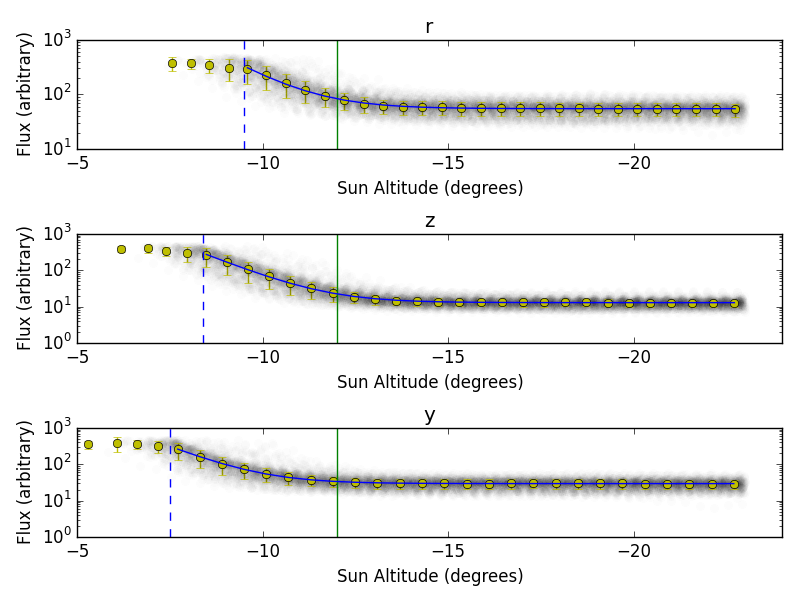
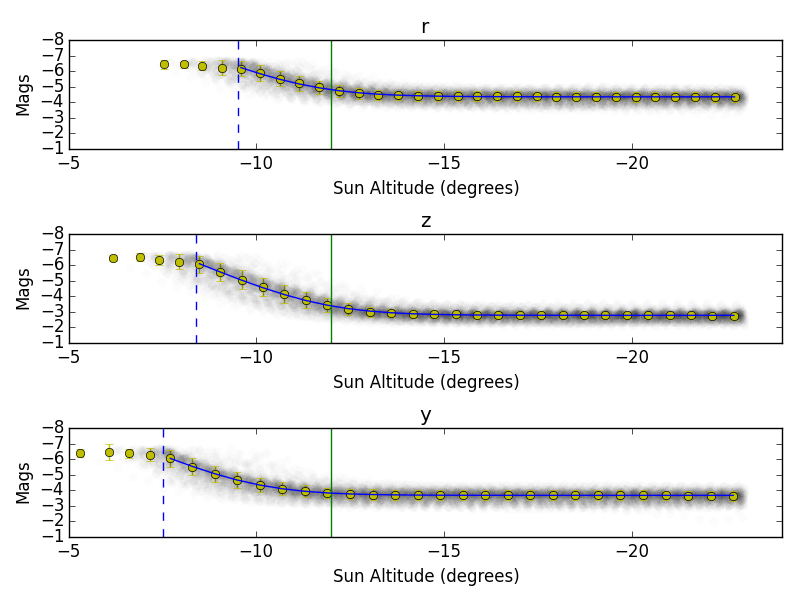
done w draft 1 I think

diff --git a/doc/tex/skyModel.tex b/doc/tex/skyModel.tex
@@ -35,7 +35,7 @@ Seattle WA, 98195; {yoachim@uw.edu} }
 
 \section{Introduction}
 
-An accurate model of the background sky emission is needed to accurately simulate and schedule observations for LSST.  As a starting point, we use the ESO SkyCalc Sky Model Calculator\footnote{\url{http://www.eso.org/observing/etc/bin/gen/form?} \url{INS.MODE=swspectr+INS.NAME=SKYCALC}}.  The ESO model includes scattered moonlight, scattered starlight, zodiacal light, molecular emission from the lower atmosphere, emission lines from the upper atmosphere, and airglow continuum.  The ESO model is designed for Paranal, which seems to be very similar to Pachon.  
+An accurate model of the background sky emission is needed to accurately simulate and schedule observations for LSST.  As a starting point, we use the ESO SkyCalc Sky Model Calculator\footnote{\url{http://www.eso.org/observing/etc/bin/gen/form?} \url{INS.MODE=swspectr+INS.NAME=SKYCALC}} \citep{Noll12,Jones13}.  The ESO model includes scattered moonlight, scattered starlight, zodiacal light, molecular emission from the lower atmosphere, emission lines from the upper atmosphere, and airglow continuum.  The ESO model is designed for Paranal, which seems to be very similar to Pachon.  
 
 The general idea is that the ESO model computes the expected sky background from different sources from first principles. Because LSST will want to compute the sky background for the full sky millions of times throughout the survey, we need to improve performance by pre-computing the ESO model on relevant parameter grids and interpolating the results to our specific observation times. Also, the ESO source code is not available, limiting our ability to run it directly at scale.
 
@@ -53,7 +53,7 @@ We use an airmass grid of 1, 1.2, 1.4, 2.0, and 2.5 and a Healpixel grid with 19
 
 \begin{figure}
   \plotone{../Plots/zodiacal.pdf}
-  \caption{Example of zodiacal light \label{fig:zodiacal}}
+  \caption{Example of zodiacal light interpolated from ESO templates. \label{fig:zodiacal}}
 \end{figure}
 
 
@@ -98,7 +98,7 @@ Because the upper atmosphere, lower atmosphere, and scattered star light only va
 
 \begin{figure}
   \plotone{../Plots/merged.pdf}
-  \caption{Example of the sky brightness components that are only dependent on airmass.  \label{fig:merged}}
+  \caption{Examples of the sky brightness components that are only dependent on airmass.  \label{fig:merged}}
 \end{figure}
 
 
@@ -128,13 +128,13 @@ Rather than compute radiative transfer, the data from the all-sky camera as well
 
 \begin{figure*}
   \plotone{../../examples/Plots/diode.pdf}
-  \caption{The photodiode data.  All three photodiodes are pointed to zenith. The light gray points show individual measurements, while the yellow points are the median-binned data. The solid blue line shows the best fit exponential decay plus constant. The green vertical line marks 12 degree twilight, and the dashed vertical blue line shows where the data was not used because the detector was often saturated at that point. \label{diodePlot}}
+  \caption{Photodiode observations of zenith at the LSST site. The light gray points show individual measurements, while the yellow points are the median-binned data. The solid blue line shows the best fit exponential decay plus constant. The green vertical line marks 12 degree twilight, and the dashed vertical blue line shows where the data was not used because the detector was often saturated at that point. \label{diodePlot}}
 \end{figure*}
 
 
 \begin{figure*}
   \plotone{../../examples/Plots/twiExamples.pdf}
-  \caption{Sky brightness values measured from the Canon all-sky camera after median binning spatially by Healpixels and combining similar sun altitudes. Only frames with the moon below the horizon were used. Zenith is at the center of each image, and the sun is below the horizon at an azimuth of zero (bottom of the frame. The data values are instrumental magnitudes.)  \label{fig:twiSky}}
+  \caption{Sky brightness values measured from the Canon all-sky camera after median binning spatially by Healpixels and combining similar sun altitude observations. Only frames with the moon below the horizon were used. Zenith is at the center of each image, and the sun is below the horizon at an azimuth of zero (bottom of the frame). The values are instrumental magnitudes.  \label{fig:twiSky}}
 \end{figure*}
 
 
@@ -237,7 +237,7 @@ Using the same set of 3400 observations, we zeropoint each frame (to correct for
   \plottwo{../../examples/Plots/medianAngDiff_G_.pdf}{../../examples/Plots/rmsAngDiff_G_.pdf}
   \plottwo{../../examples/Plots/medianAngDiff_B_.pdf}{../../examples/Plots/rmsAngDiff_B_.pdf}
   \epsscale{1}
-  \caption{Comparing the angular distance between the model-predicted darkest spot on the sky and the darkest spot as observed by the Canon all-sky camera \label{fig:darkDir}.  Most of the variation can be attributed to frames with clouds. Dashed lines mark moon-rise and the end of twilight.}
+  \caption{Comparing the angular distance between the model-predicted darkest spot on the sky and the darkest spot as observed by the Canon all-sky camera \label{fig:darkDir}.  Dashed lines mark moonrise and end of twilight (lower left region is dark-time).  The panels on the left show the median distance between the model and observation for each bin while the right panels show the robust-RMS for each bin.  Most of the variation can be attributed to frames with clouds.}
 \end{figure*}
 
 \clearpage
@@ -253,12 +253,12 @@ Using the same set of 3400 observations, we zeropoint each frame (to correct for
 \end{figure*}
 
 
-Our results can be compared to the ESO-Paranal twilight sky observations presented in \citet{Patat06}. We have scrapped the twilight zenith sky brightness data for observations taken of long-exposure standards with the FORS1 instrument.  The data and best fitting exponential-plus-constant models are shown in Figure~\ref{fig:Patat}.  The best-fit parameters are listed in Table~\ref{table:PatatFits}.  The Canon-B brightness seems to be fainter than Johnson's $B$.  The slopes of the twilight decay are very similar with the \citet{Patat06} data having $ -0.99  < a < -0.94 $ mag degree$^-1$ and our fits are in the range $ -1.02 < a < -0.97$ mag degree$^-1$.
+Our results can be compared to the ESO-Paranal twilight sky observations presented in \citet{Patat06}. We have scrapped the twilight zenith sky brightness data for observations taken of long-exposure standards with the FORS1 instrument.  The data and best fitting exponential-plus-constant models are shown in Figure~\ref{fig:Patat}.  The best-fit parameters are listed in Table~\ref{table:PatatFits}.  The Canon-B brightness seems to be fainter than Johnson's $B$.  The slopes of the twilight decay are very similar with the \citet{Patat06} data having $ -1.06  < a < -0.97 $ mag degree$^-1$ and our fits are in the range $ -1.02 < a < -0.97$ mag degree$^-1$.
 
 
 \begin{figure}
   \plotone{../PatatTwi/patatFits.pdf}
-  \caption{Data scraped from \citet{Patat06} and fit with our simple exponential decay plus constant model. Dashed black lines show the best-fit curves.  The red dashed line shows the 12-degree twilight line.  \label{fig:Patat} }
+  \caption{Zenith sky surface brightness data scraped from \citet{Patat06} and fit with our simple exponential decay plus constant model. Dashed black lines show the best-fit curves.  The red dashed line shows the 12-degree twilight line.  \label{fig:Patat} }
 \end{figure}
 
 
@@ -271,11 +271,11 @@ Our results can be compared to the ESO-Paranal twilight sky observations present
   \tablehead{\colhead{Filter} & \colhead{$r_{12/z}$} & \colhead{$a$ } \\
   & & \colhead{(1/radians)}  }
   \startdata
-  U & 13.28 & 21.79 \\
-  B & 15.57 & 21.65 \\
-  V & 4.81 & 21.91 \\
-  R & 3.52 & 22.27 \\
-  I & 2.36 & 22.78
+  U & 13.40 & 22.37 \\
+  B & 15.49 & 22.60 \\
+  V & 4.78  & 22.31 \\
+  R & 3.35  & 24.35 \\
+  I & 2.29  & 24.08
 \end{deluxetable}
 
 
@@ -302,4 +302,4 @@ The sky model currently uses the pyEphem package to compute sun and moon positio
 %%  LocalWords:  SIM Cerro Pachon photodiodes airmasses radians pre
 %%  LocalWords:  photodiode zeropoint skybrightness stepsize Mauna
 %%  LocalWords:  Kea Paranal brightnesses pointings SFU annulus NIST
-%%  LocalWords:  radiative FORS
+%%  LocalWords:  radiative FORS healpix healpy pyEphem

diff --git a/examples/fitDiode.py b/examples/fitDiode.py
@@ -96,15 +96,16 @@ fig = plt.figure()
 for i,filterName in enumerate(filterNames):
     good = np.where( diode[filterName] < 480. )
     ax = fig.add_subplot(3,1,i+1)
-    ax.semilogy(np.degrees(diode['sunAlt'][good][::100]),
-                diode[filterName][good][::100], 'ko', alpha=.01 )
+    ax.plot(np.degrees(diode['sunAlt'][good][::100]),
+                -2.5*np.log10(diode[filterName][good][::100]), 'ko', alpha=.01 )
     ax.set_xlabel('Sun Altitude (degrees)')
-    ax.set_ylabel('Flux (arbitrary) ')
+    ax.set_ylabel('Mags')
     ax.set_title(filterName)
 
     xbinned,ybinned,yrms = medFilt(np.degrees(diode['sunAlt'][good]),
                                    diode[filterName][good])
-    ax.errorbar(xbinned,ybinned, yerr=yrms, fmt='yo')
+    magErr = 1.0857*yrms/ybinned
+    ax.errorbar(xbinned,-2.5*np.log10(ybinned), yerr=magErr, fmt='yo')
     ax.axvline(x=altLimits[filterName], color='b', linestyle='--')
     ax.set_xlim([-5,-24])
     ax.axvline(x=-12, color='g', linestyle='-')
@@ -115,8 +116,9 @@ for i,filterName in enumerate(filterNames):
                                           ybinned[goodBinned],
                                           sigma=yrms[goodBinned], p0=p0)
 
-    ax.plot(xbinned[goodBinned], zenithTwilight(np.radians(xbinned[goodBinned]), *fitParams), 'b' )
+    ax.plot(xbinned[goodBinned], -2.5*np.log10(zenithTwilight(np.radians(xbinned[goodBinned]), *fitParams)), 'b' )
 
+    ax.set_ylim([-1,-8])
 
     fittedParams[filterName] = fitParams
 

diff --git a/doc/PatatTwi/fitPat.py b/doc/PatatTwi/fitPat.py
@@ -14,7 +14,7 @@ def expPc(x,a,const, ratio):
 
 files = {'B':'Bband.dat', 'I':'Iband.dat', 'R':'Rband.dat', 'U':'Uband.dat', 'V':'vband.dat'}
 
-names = ['zenthAng', 'sb']
+names = ['zenithAng', 'sb']
 types = [float]*2
 dt = zip(names,types)
 
@@ -28,8 +28,11 @@ order = ['U','B','V','R','I']
 for i,key in enumerate(order):
     data = np.genfromtxt(files[key], dtype=dt, comments='#', delimiter=',')
 
+    good = np.where(data['zenithAng'] >= 100.)
+    data = data[good]
+
     flux = 10.**(-0.4*data['sb'])
-    x = np.radians(90.-data['zenthAng'])
+    x = np.radians(90.-data['zenithAng'])
     p0 = [22., np.min(flux), 4.]
     popt, pcov = curve_fit(expPc, x, flux, p0=p0, sigma=flux*.05)
 
@@ -42,7 +45,7 @@ for i,key in enumerate(order):
                 color='k', alpha=.5)
 
 
-ax.set_xlim([-6,-22])
+ax.set_xlim([-10,-22])
 ax.set_xlabel('Sun Altitude (degrees)')
 ax.set_ylabel('Flux (arbitrary)')
 ax.legend()
